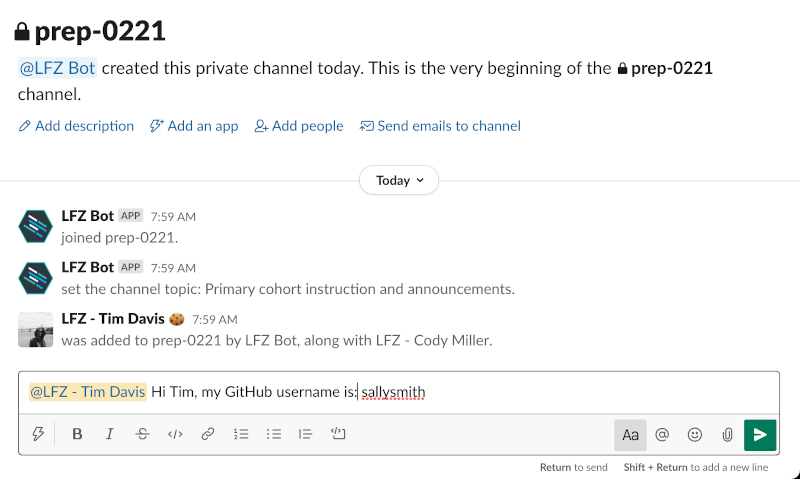
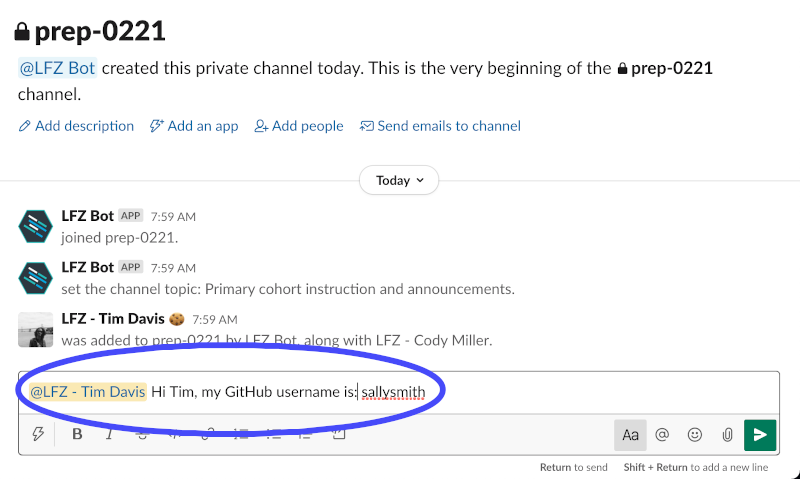
Make github username slack message clearer.

Changed region(s): [[0.0312, 0.7015, 0.5625, 0.8476], [0.0938, 0.8476, 0.5312, 0.9353], [0.0, 0.7891, 0.0938, 0.8768]]

diff --git a/guides/setup.md b/guides/setup.md
@@ -12,11 +12,19 @@ Here at LearningFuze, we use a specific code editor setup, so there is a separat
 
 [Follow the instructions here](https://github.com/Learning-Fuze/lfz-code).
 
-- If you get a 404 page, then make sure you are **signed into GitHub** and try again.
+- If you get a 404 page, then make sure you are **signed into GitHub**  and try again.
 - If you _still_ get a 404 page, then something is amiss. Make sure that:
-  - the [instructors know your GitHub username](github.md#notify-us)
-  - and that you have [joined our GitHub team](lms.md#join-the-team).
+  - the instructors **know your GitHub username**
+  - and that you have **joined our GitHub team**.
 
 <p align="middle">
   <img src="../assets/github-not-found.png" alt="example 404 page">
+</p>
+
+<p align="middle">
+  <img src="../assets/github-username-slack.png" alt="send github username via slack">
+</p>
+
+<p align="middle">
+  <img src="../assets/github-invitation.png" alt="join the team">
 </p>
